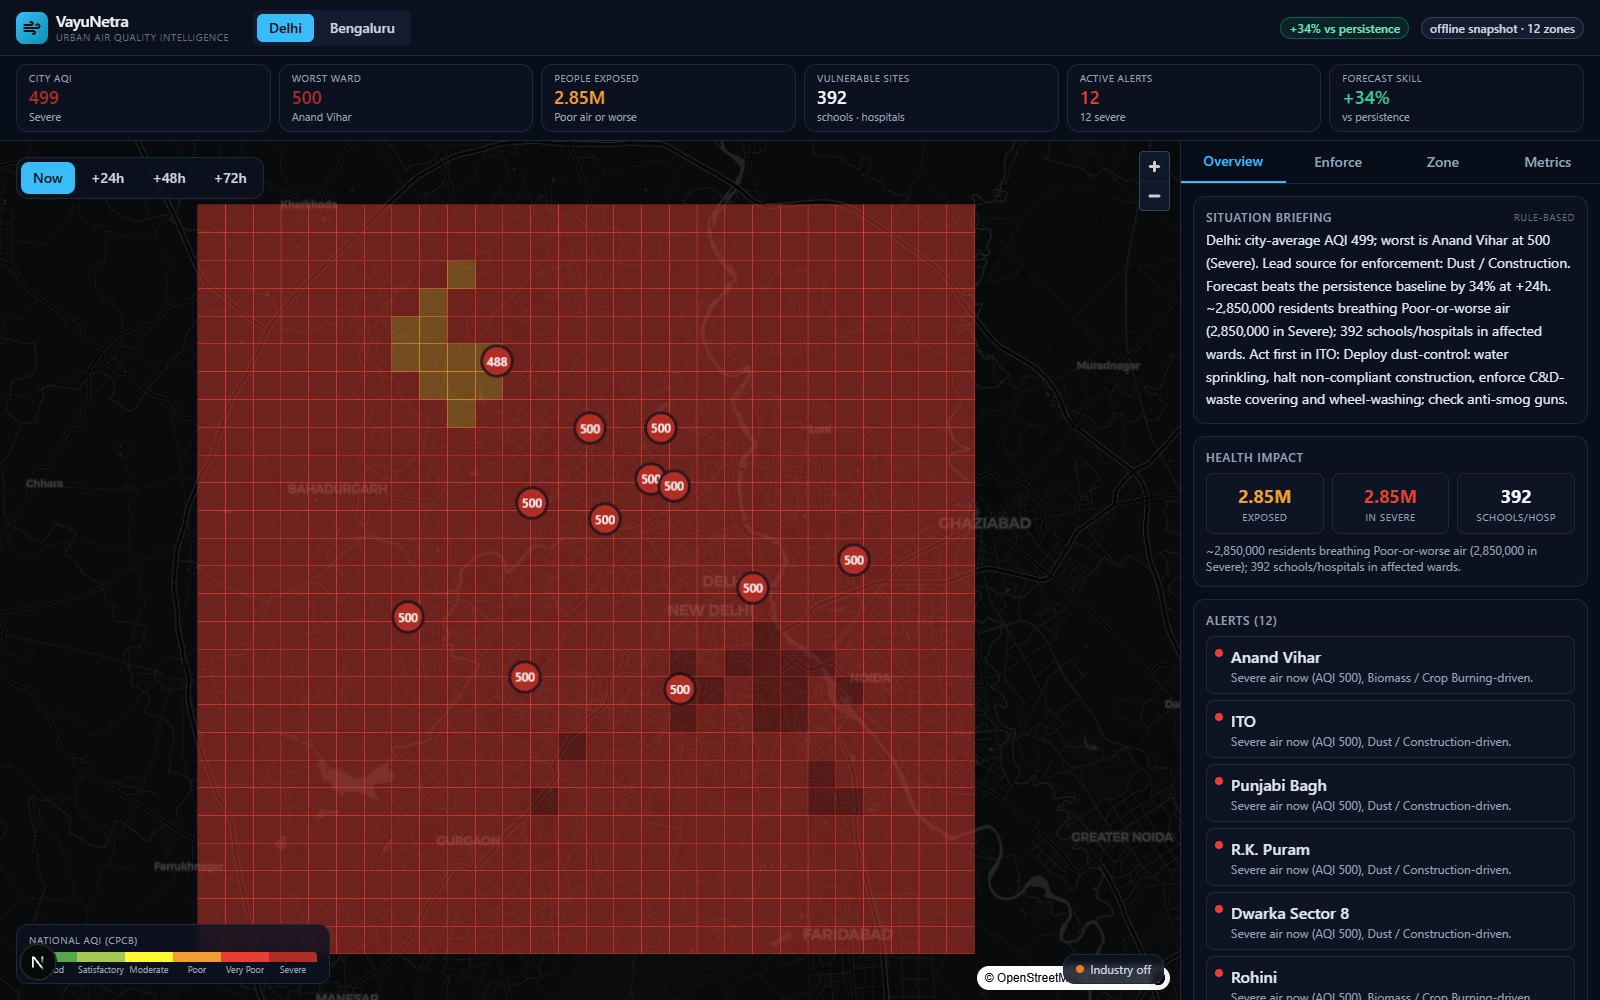
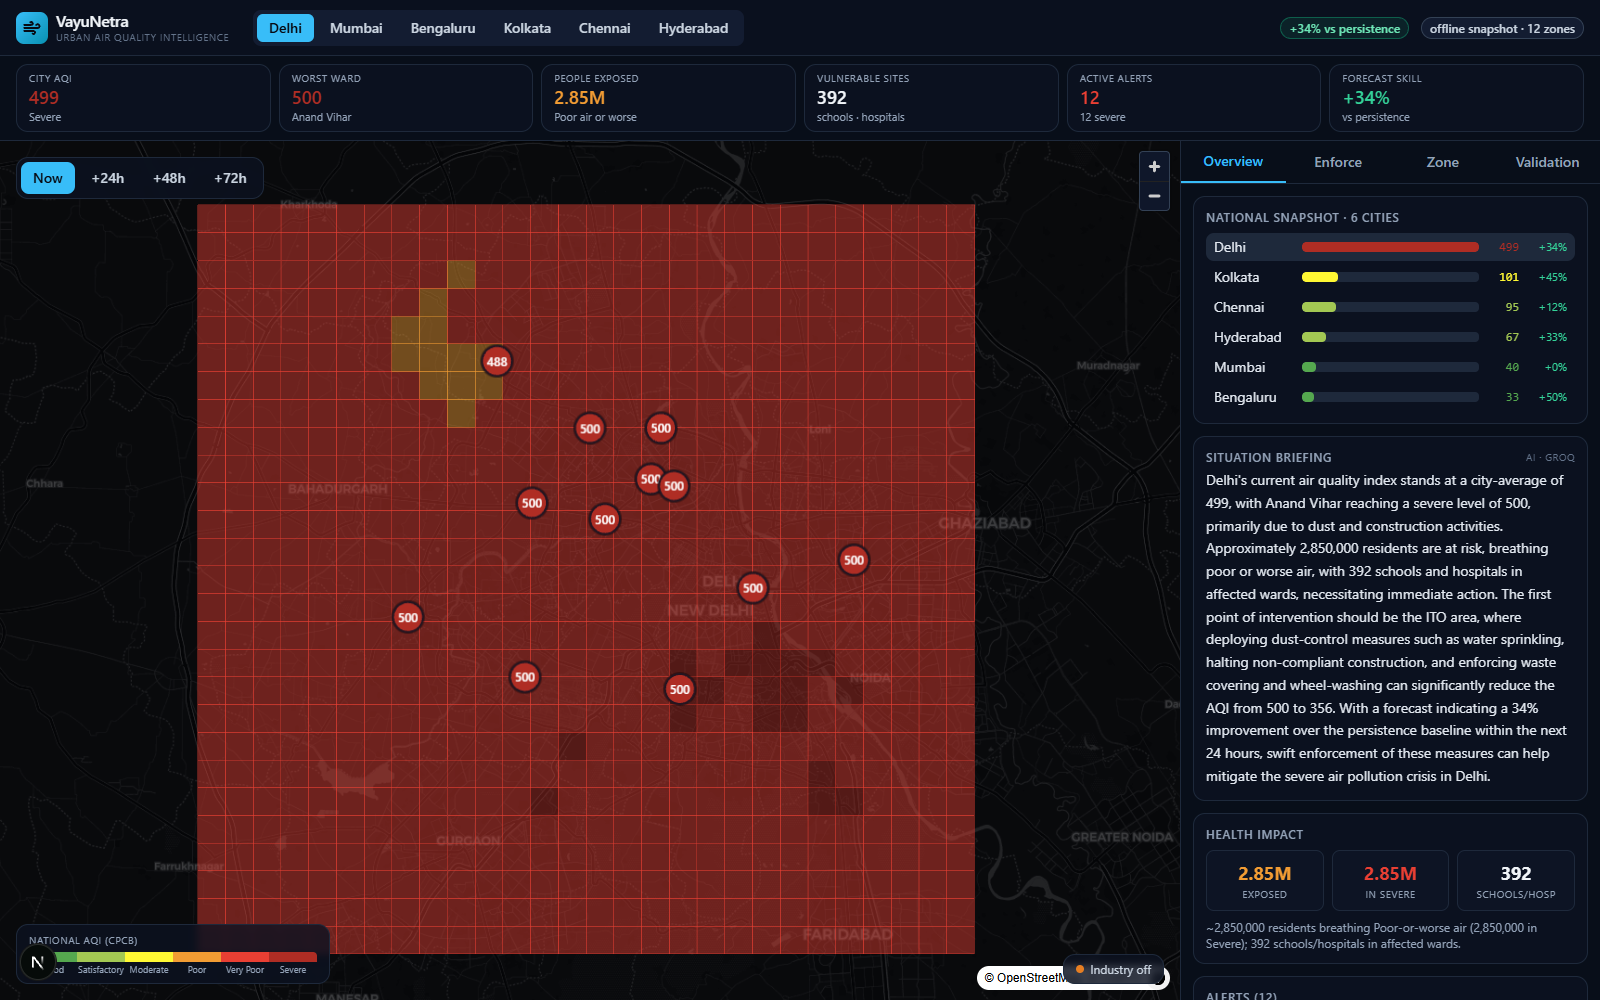
feat(national+proof): multi-city comparison + Validation lab UI + Groq briefings live
- backend: /api/compare (per-city KPIs) + CityComparison schema
- Overview: National snapshot (6 cities ranked by AQI, skill %, click to switch)
- Validation tab: RMSE/persistence/R2 table, backtest (pred vs actual), scatter w/ y=x,
  p10-p90 calibration coverage, blend weight, feature importance
- Groq advisories + AI city briefings now live (keys in .env)
- production build green; browser-verified across 6 cities, 0 console errors

diff --git a/frontend/src/components/MetricsPanel.tsx b/frontend/src/components/MetricsPanel.tsx
@@ -1,44 +1,46 @@
+"use client";
+
+import {
+  CartesianGrid, Line, LineChart, ReferenceLine, ResponsiveContainer, Scatter, ScatterChart,
+  Tooltip, XAxis, YAxis,
+} from "recharts";
 import type { CityIntelligence } from "@/lib/types";
 import { featureLabel } from "@/lib/sources";
 
-function fmt(ts: string) {
-  const d = new Date(ts);
-  return isNaN(d.getTime()) ? ts : d.toLocaleString(undefined, { month: "short", day: "numeric", hour: "2-digit", minute: "2-digit" });
-}
+const TIP = { background: "#0f172a", border: "1px solid #334155", borderRadius: 8, fontSize: 12 };
 
 export default function MetricsPanel({ intel }: { intel: CityIntelligence }) {
   const m = intel.metrics;
   const head = m?.horizons?.[0];
   const importance = Object.entries(m?.feature_importance ?? {}).slice(0, 8);
   const maxImp = importance.length ? Math.max(...importance.map(([, v]) => v)) : 1;
+  const backtest = (m?.backtest ?? []).map((p, i) => ({ i, actual: p.actual, predicted: p.predicted }));
+  const scatter = m?.scatter ?? [];
+  const scMax = scatter.length
+    ? Math.ceil(Math.max(...scatter.map((s) => Math.max(s.actual, s.predicted))) / 10) * 10
+    : 100;
 
   return (
     <div className="space-y-3">
       <div className="card p-3">
-        <div className="text-xs font-semibold uppercase tracking-wider text-slate-400">City summary</div>
-        <p className="mt-1 text-sm leading-relaxed text-slate-200">{intel.summary}</p>
-        <div className="mt-2 flex flex-wrap gap-2 text-[11px] text-slate-400">
-          <span className="chip bg-ink-700">data: {intel.data_source}</span>
-          <span className="chip bg-ink-700">snapshot @ {fmt(intel.now_ts)}</span>
-        </div>
-      </div>
-
-      {m && head && (
-        <div className="card p-3">
-          <div className="mb-1 flex items-baseline justify-between">
-            <div className="text-xs font-semibold uppercase tracking-wider text-slate-400">Forecast skill</div>
+        <div className="mb-1 flex items-baseline justify-between">
+          <div className="text-xs font-semibold uppercase tracking-wider text-slate-400">Forecast skill</div>
+          {head && (
             <div className="text-right">
               <span className="font-mono text-2xl font-bold text-emerald-400">+{head.improvement_pct.toFixed(0)}%</span>
-              <span className="ml-1 text-xs text-slate-400">vs persistence</span>
+              <span className="ml-1 text-xs text-slate-400">RMSE vs persistence</span>
             </div>
-          </div>
+          )}
+        </div>
+        {m && (
           <table className="w-full text-xs">
             <thead className="text-slate-500">
               <tr className="text-left">
                 <th className="py-1 font-medium">Lead</th>
-                <th className="py-1 text-right font-medium">Model RMSE</th>
-                <th className="py-1 text-right font-medium">Persistence</th>
+                <th className="py-1 text-right font-medium">RMSE</th>
+                <th className="py-1 text-right font-medium">Persist.</th>
                 <th className="py-1 text-right font-medium">Gain</th>
+                <th className="py-1 text-right font-medium">R²</th>
               </tr>
             </thead>
             <tbody className="font-mono text-slate-200">
@@ -48,13 +50,66 @@ export default function MetricsPanel({ intel }: { intel: CityIntelligence }) {
                   <td className="py-1 text-right">{h.rmse.toFixed(1)}</td>
                   <td className="py-1 text-right text-slate-400">{h.persistence_rmse.toFixed(1)}</td>
                   <td className="py-1 text-right text-emerald-400">+{h.improvement_pct.toFixed(0)}%</td>
+                  <td className="py-1 text-right">{h.r2.toFixed(2)}</td>
                 </tr>
               ))}
             </tbody>
           </table>
-          <div className="mt-2 text-[11px] text-slate-500">
-            Held-out test: {m.n_test.toLocaleString()} samples · trained on {m.n_train.toLocaleString()} · target PM2.5 (µg/m³)
+        )}
+        {m && (
+          <div className="mt-2 flex flex-wrap gap-2 text-[11px]">
+            <span className="chip bg-ink-700 text-slate-300">held-out {m.n_test.toLocaleString()} samples</span>
+            <span className="chip bg-ink-700 text-slate-300">band coverage {Math.round(m.coverage * 100)}% (target 80)</span>
+            <span className="chip bg-ink-700 text-slate-300">
+              ML weight {Math.round(m.blend_weight * 100)}%{m.blend_weight < 0.5 ? " · defers to baseline" : ""}
+            </span>
           </div>
+        )}
+      </div>
+
+      {backtest.length > 0 && (
+        <div className="card p-3">
+          <div className="mb-1 text-xs font-semibold uppercase tracking-wider text-slate-400">
+            Backtest · predicted vs actual (+24h)
+          </div>
+          <div className="h-40 w-full">
+            <ResponsiveContainer>
+              <LineChart data={backtest} margin={{ top: 6, right: 6, bottom: 0, left: -22 }}>
+                <CartesianGrid stroke="#1e293b" strokeDasharray="3 3" />
+                <XAxis dataKey="i" tick={false} stroke="#334155" height={4} />
+                <YAxis tick={{ fill: "#64748b", fontSize: 10 }} stroke="#334155" width={34} />
+                <Tooltip contentStyle={TIP} />
+                <Line dataKey="actual" stroke="#94a3b8" dot={false} strokeWidth={1.5} isAnimationActive={false} />
+                <Line dataKey="predicted" stroke="#38bdf8" dot={false} strokeWidth={1.5} isAnimationActive={false} />
+              </LineChart>
+            </ResponsiveContainer>
+          </div>
+          <div className="flex gap-3 text-[11px] text-slate-400">
+            <span><span className="inline-block h-2 w-3 align-middle" style={{ background: "#94a3b8" }} /> actual</span>
+            <span><span className="inline-block h-2 w-3 align-middle" style={{ background: "#38bdf8" }} /> predicted</span>
+          </div>
+        </div>
+      )}
+
+      {scatter.length > 0 && (
+        <div className="card p-3">
+          <div className="mb-1 flex items-baseline justify-between">
+            <div className="text-xs font-semibold uppercase tracking-wider text-slate-400">Predicted vs actual</div>
+            {head && <span className="font-mono text-xs text-slate-300">R² {head.r2.toFixed(2)}</span>}
+          </div>
+          <div className="h-44 w-full">
+            <ResponsiveContainer>
+              <ScatterChart margin={{ top: 6, right: 8, bottom: 0, left: -22 }}>
+                <CartesianGrid stroke="#1e293b" />
+                <XAxis type="number" dataKey="actual" domain={[0, scMax]} tick={{ fill: "#64748b", fontSize: 10 }} stroke="#334155" name="actual" />
+                <YAxis type="number" dataKey="predicted" domain={[0, scMax]} tick={{ fill: "#64748b", fontSize: 10 }} stroke="#334155" width={34} name="predicted" />
+                <ReferenceLine segment={[{ x: 0, y: 0 }, { x: scMax, y: scMax }]} stroke="#475569" strokeDasharray="4 4" />
+                <Tooltip contentStyle={TIP} cursor={{ strokeDasharray: "3 3" }} />
+                <Scatter data={scatter} fill="#38bdf8" fillOpacity={0.45} />
+              </ScatterChart>
+            </ResponsiveContainer>
+          </div>
+          <div className="text-[11px] text-slate-500">Points on the dashed diagonal = perfect prediction (µg/m³ PM2.5).</div>
         </div>
       )}
 
@@ -72,7 +127,7 @@ export default function MetricsPanel({ intel }: { intel: CityIntelligence }) {
             ))}
           </div>
           <div className="mt-2 text-[11px] text-slate-500">
-            Permutation importance. Boundary-layer height + diurnal cycle dominate — physically consistent.
+            Permutation importance — boundary-layer height + diurnal cycle dominate (physically consistent).
           </div>
         </div>
       )}

diff --git a/frontend/src/components/OverviewPanel.tsx b/frontend/src/components/OverviewPanel.tsx
@@ -1,8 +1,10 @@
 "use client";
 
 import { useEffect, useState } from "react";
+import clsx from "clsx";
 import { api } from "@/lib/api";
-import type { CityIntelligence } from "@/lib/types";
+import type { CityComparison, CityIntelligence } from "@/lib/types";
+import { aqiColor } from "@/lib/aqi";
 import { compact } from "@/lib/format";
 
 const ALERT_COLOR: Record<string, string> = { severe: "#E93F33", warning: "#F29C33", watch: "#FFF833" };
@@ -17,12 +19,15 @@ function Stat({ v, l, c }: { v: string; l: string; c?: string }) {
 }
 
 export default function OverviewPanel({
-  intel, onSelectZone,
+  intel, onSelectZone, onCity, activeCityId,
 }: {
   intel: CityIntelligence;
   onSelectZone: (id: string) => void;
+  onCity: (id: string) => void;
+  activeCityId: string;
 }) {
   const [brief, setBrief] = useState<{ generated_by: string; briefing: string } | null>(null);
+  const [compare, setCompare] = useState<CityComparison[] | null>(null);
 
   useEffect(() => {
     let cancelled = false;
@@ -31,10 +36,43 @@ export default function OverviewPanel({
     return () => { cancelled = true; };
   }, [intel.city_id]);
 
+  useEffect(() => {
+    let cancelled = false;
+    api.compare().then((d) => !cancelled && setCompare(d)).catch(() => {});
+    return () => { cancelled = true; };
+  }, []);
+
   const h = intel.health;
+  const maxAqi = compare && compare.length ? Math.max(...compare.map((c) => c.avg_aqi), 1) : 1;
 
   return (
     <div className="space-y-3">
+      <div className="card p-3">
+        <div className="mb-2 text-xs font-semibold uppercase tracking-wider text-slate-400">
+          National snapshot · {compare?.length ?? 0} cities
+        </div>
+        <div className="space-y-0.5">
+          {(compare ?? []).map((c) => (
+            <button
+              key={c.city_id}
+              onClick={() => onCity(c.city_id)}
+              className={clsx(
+                "flex w-full items-center gap-2 rounded-lg px-2 py-1 text-left transition-colors",
+                c.city_id === activeCityId ? "bg-ink-700" : "hover:bg-ink-800",
+              )}
+            >
+              <span className="w-20 flex-shrink-0 truncate text-sm text-slate-200">{c.city_name}</span>
+              <div className="h-2.5 flex-1 overflow-hidden rounded bg-ink-700">
+                <div className="h-full rounded" style={{ width: `${(c.avg_aqi / maxAqi) * 100}%`, background: aqiColor(c.avg_aqi) }} />
+              </div>
+              <span className="w-8 text-right font-mono text-xs" style={{ color: aqiColor(c.avg_aqi) }}>{c.avg_aqi}</span>
+              <span className="w-10 text-right text-[11px] text-emerald-400">+{c.improvement_pct.toFixed(0)}%</span>
+            </button>
+          ))}
+          {!compare && <div className="px-2 text-xs text-slate-500">Loading national snapshot…</div>}
+        </div>
+      </div>
+
       <div className="card p-3">
         <div className="mb-1 flex items-center justify-between">
           <div className="text-xs font-semibold uppercase tracking-wider text-slate-400">Situation briefing</div>

diff --git a/frontend/src/lib/types.ts b/frontend/src/lib/types.ts
@@ -45,10 +45,20 @@ export interface EnforcementItem {
 export interface HorizonMetric {
   horizon_h: number; rmse: number; mae: number;
   persistence_rmse: number; persistence_mae: number; improvement_pct: number;
+  r2: number; bias: number;
 }
+export interface BacktestPoint { ts: string; actual: number; predicted: number }
+export interface ScatterPoint { actual: number; predicted: number }
 export interface ForecastMetrics {
   city_id: string; target: string; trained_at: string; n_train: number; n_test: number;
+  blend_weight: number; coverage: number;
   horizons: HorizonMetric[]; feature_importance: Record<string, number>;
+  backtest: BacktestPoint[]; scatter: ScatterPoint[];
+}
+
+export interface CityComparison {
+  city_id: string; city_name: string; avg_aqi: number; worst_zone: string; worst_aqi: number;
+  exposed: number; alerts: number; improvement_pct: number; category: string;
 }
 
 export interface CityHealth {

diff --git a/frontend/src/app/page.tsx b/frontend/src/app/page.tsx
@@ -151,14 +151,14 @@ export default function Page() {
                   tab === t ? "border-b-2 border-brand text-brand" : "text-slate-400 hover:text-slate-200",
                 )}
               >
-                {t === "enforce" ? "Enforce" : t}
+                {t === "enforce" ? "Enforce" : t === "metrics" ? "Validation" : t}
               </button>
             ))}
           </div>
           <div className="min-h-0 flex-1 overflow-y-auto p-3">
             {tab === "overview" &&
               (intel ? (
-                <OverviewPanel intel={intel} onSelectZone={onSelectZone} />
+                <OverviewPanel intel={intel} onSelectZone={onSelectZone} onCity={setCityId} activeCityId={cityId} />
               ) : (
                 <Placeholder text="Loading overview…" />
               ))}

diff --git a/frontend/src/lib/api.ts b/frontend/src/lib/api.ts
@@ -1,5 +1,5 @@
 import type {
-  City, CityIntelligence, GridResponse, SimulationResult, ZoneForecast, ZoneHistory,
+  City, CityComparison, CityIntelligence, GridResponse, SimulationResult, ZoneForecast, ZoneHistory,
 } from "./types";
 
 const BASE = (process.env.NEXT_PUBLIC_API_BASE || "http://localhost:8000").replace(/\/$/, "");
@@ -16,6 +16,7 @@ async function get<T>(path: string): Promise<T> {
 export const api = {
   base: BASE,
   cities: () => get<City[]>("/api/cities"),
+  compare: () => get<CityComparison[]>("/api/compare"),
   intelligence: (cid: string) => get<CityIntelligence>(`/api/cities/${cid}/intelligence`),
   grid: (cid: string, layer: string, horizon: number) =>
     get<GridResponse>(`/api/cities/${cid}/grid?layer=${layer}&horizon=${horizon}`),

diff --git a/backend/app/services/intelligence_service.py b/backend/app/services/intelligence_service.py
@@ -10,12 +10,12 @@ from app.agents.advisory import build_advisory
 from app.agents.enforcement import build_enforcement
 from app.core.logging import get_logger
 from app.data.repository import get_city_observations
-from app.domain.cities import get_city
+from app.domain.cities import get_city, list_cities
 from app.ml.attribution import attribute_city
 from app.ml.forecast import ForecastModel
 from app.schemas.city import City
 from app.schemas.forecast import ForecastMetrics
-from app.schemas.intelligence import CityIntelligence
+from app.schemas.intelligence import CityComparison, CityIntelligence
 from app.schemas.observations import CityObservations
 from app.services.alerts import compute_alerts
 from app.services.downscale import factor_at, scale_forecast
@@ -114,9 +114,30 @@ def get_city_intelligence(city_id: str, mode: str = "snapshot", refresh: bool = 
 
 
 def warm_cache(mode: str = "snapshot") -> None:
-    from app.domain.cities import list_cities
     for c in list_cities():
         try:
             get_city_intelligence(c.id, mode=mode)
         except Exception as exc:
             log.warning("warm_cache failed for %s: %s", c.id, exc)
+
+
+def compare_cities() -> list[CityComparison]:
+    """Compact per-city KPIs for the national comparison view (uses cached intelligence)."""
+    out: list[CityComparison] = []
+    for c in list_cities():
+        try:
+            intel = get_city_intelligence(c.id)
+            h = intel.health
+            worst = max(intel.attributions, key=lambda a: a.aqi) if intel.attributions else None
+            skill = intel.metrics.horizons[0].improvement_pct if (intel.metrics and intel.metrics.horizons) else 0.0
+            out.append(CityComparison(
+                city_id=c.id, city_name=c.name,
+                avg_aqi=h.avg_aqi if h else 0, worst_zone=worst.zone_name if worst else "-",
+                worst_aqi=worst.aqi if worst else 0, exposed=h.exposed_population if h else 0,
+                alerts=len(intel.alerts), improvement_pct=skill,
+                category=h.worst_category if h else "-",
+            ))
+        except Exception as exc:
+            log.warning("compare failed for %s: %s", c.id, exc)
+    out.sort(key=lambda x: x.avg_aqi, reverse=True)
+    return out

diff --git a/backend/app/schemas/intelligence.py b/backend/app/schemas/intelligence.py
@@ -76,3 +76,15 @@ class CityIntelligence(BaseModel):
     landuse: LandUse | None = None
     health: CityHealth | None = None
     alerts: list[Alert] = []
+
+
+class CityComparison(BaseModel):
+    city_id: str
+    city_name: str
+    avg_aqi: int
+    worst_zone: str
+    worst_aqi: int
+    exposed: int
+    alerts: int
+    improvement_pct: float
+    category: str

diff --git a/backend/app/api/routes.py b/backend/app/api/routes.py
@@ -12,11 +12,11 @@ from app.domain.cities import get_city, list_cities
 from app.schemas.city import City
 from app.schemas.forecast import ZoneForecast
 from app.schemas.grid import GridResponse
-from app.schemas.intelligence import CityIntelligence
+from app.schemas.intelligence import CityComparison, CityIntelligence
 from app.schemas.scenario import SimulationResult, ZoneHistory
 from app.services import grid as grid_service
 from app.services.downscale import factor_at, scale_forecast
-from app.services.intelligence_service import get_city_intelligence, get_model
+from app.services.intelligence_service import compare_cities, get_city_intelligence, get_model
 from app.services.scenario import build_history, simulate_reduction
 
 log = get_logger("vayunetra.api.routes")
@@ -33,6 +33,11 @@ def _require_city(cid: str) -> City:
 @router.get("/cities", response_model=list[City], tags=["cities"])
 def cities():
     return list_cities()
+
+
[email redacted]("/compare", response_model=list[CityComparison], tags=["cities"])
+def compare():
+    return compare_cities()
 
 
 @router.get("/cities/{cid}", response_model=City, tags=["cities"])